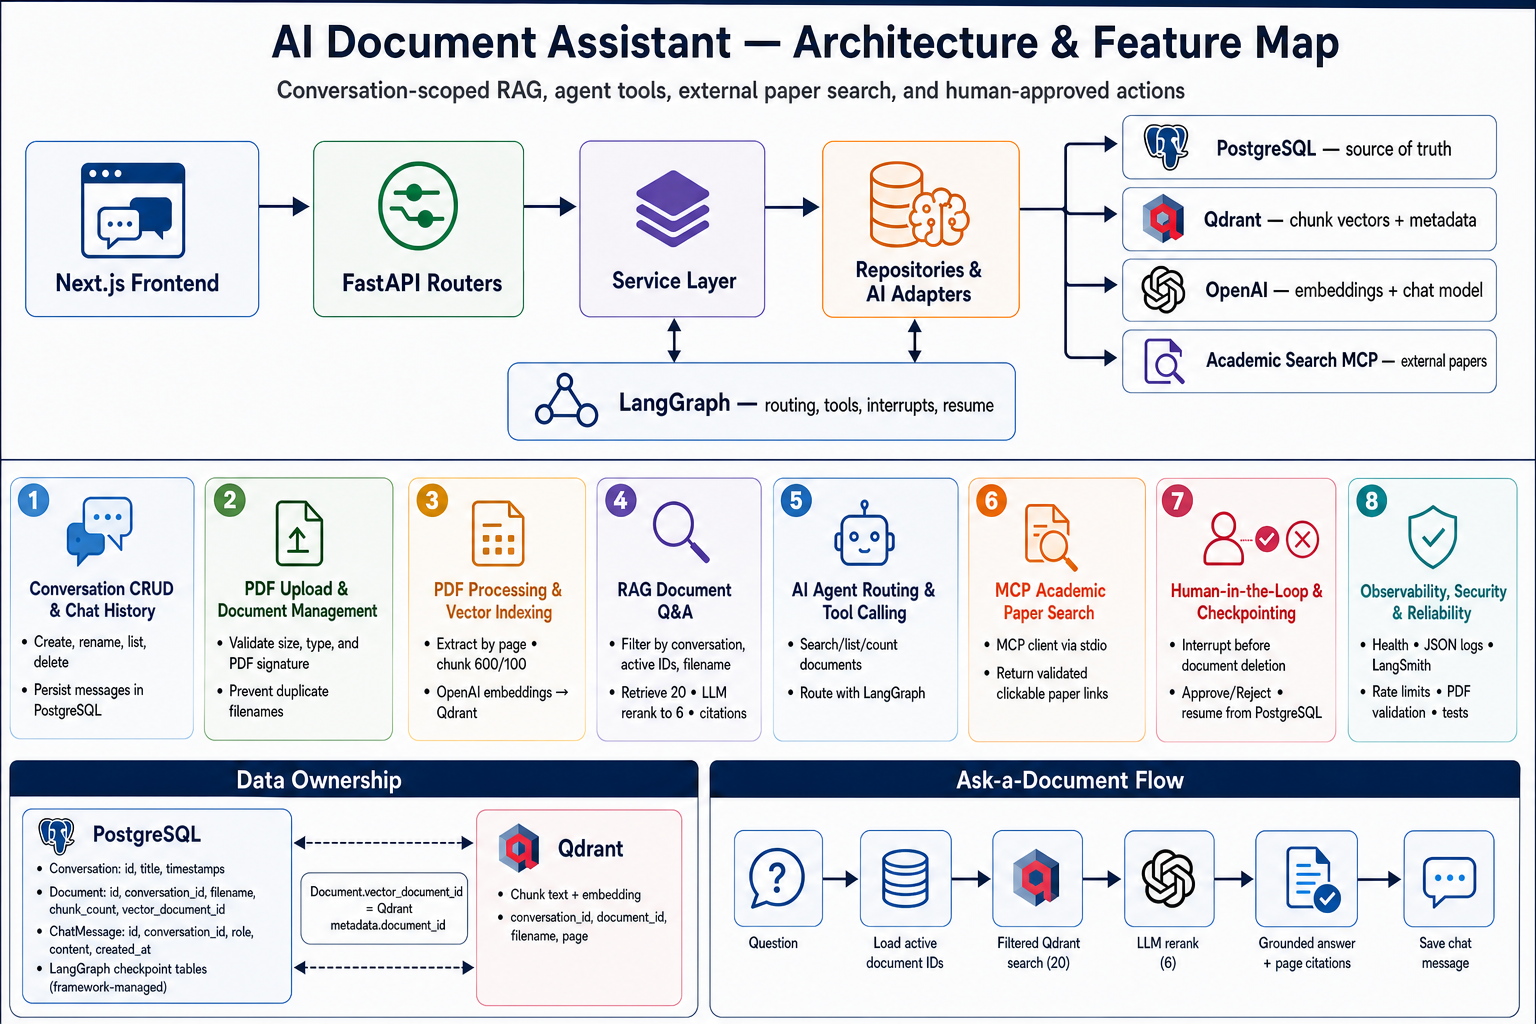
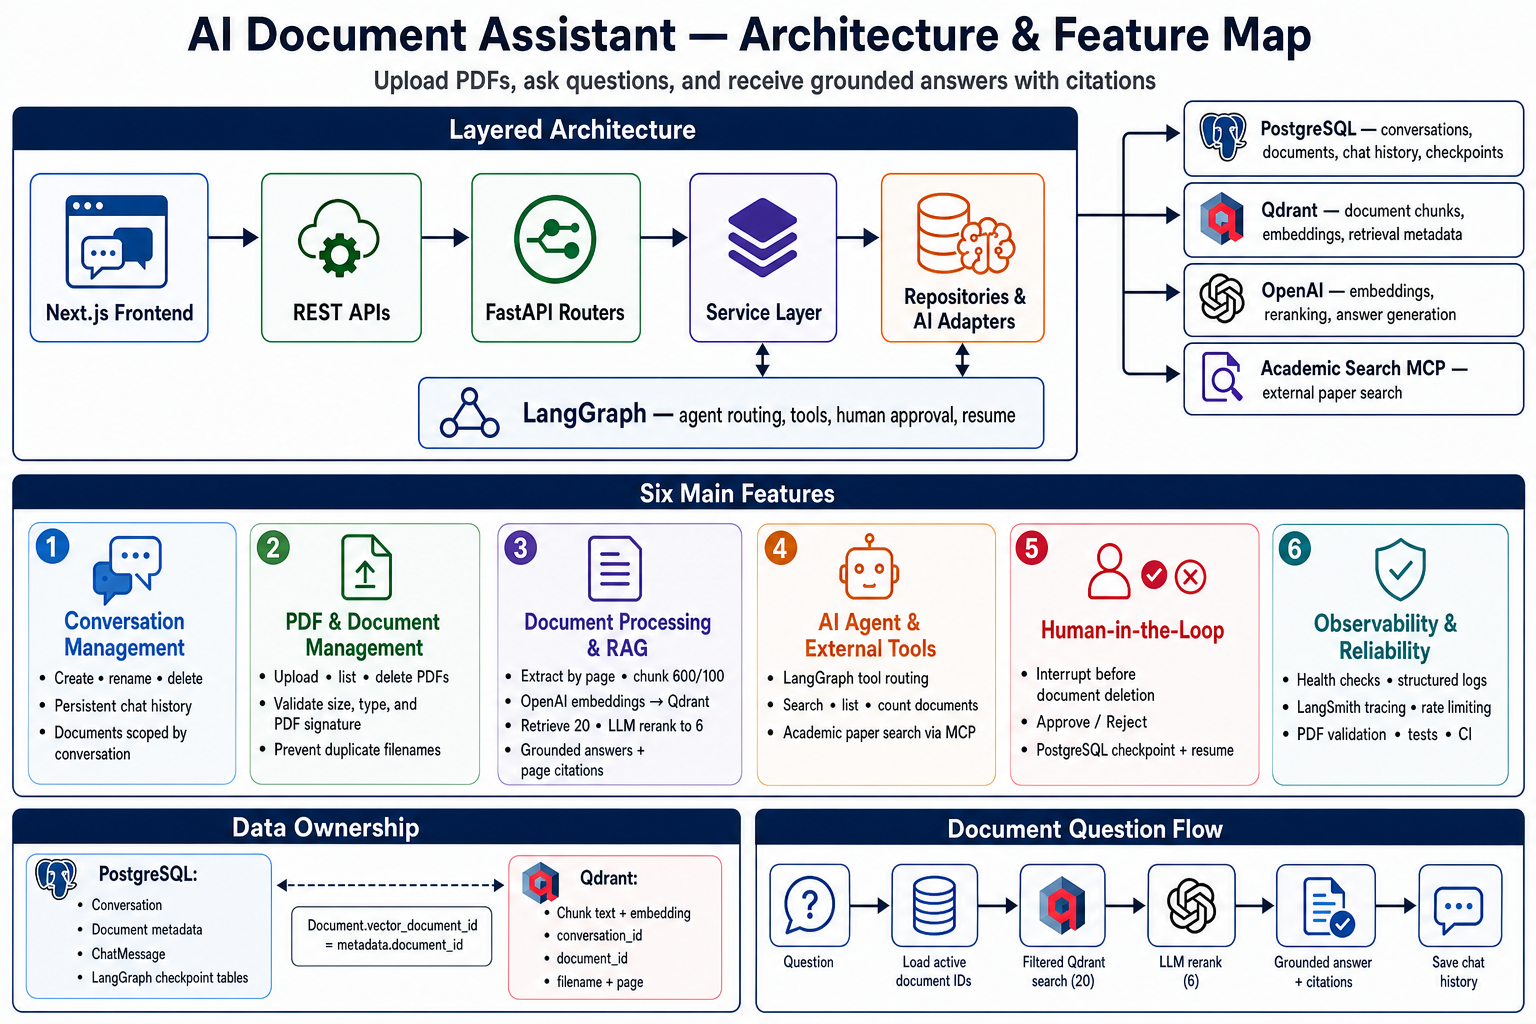
Update project architecture and feature overview

diff --git a/README.md b/README.md
@@ -19,6 +19,14 @@ academic discovery through MCP, and human approval for destructive actions.
 > Built as a portfolio-ready reference for production-oriented RAG and agentic
 > application development.
 
+## 🗺 Project Overview
+
+The diagram below summarizes the architecture, feature workflows, core data
+model, AI orchestration, and reliability stack of the complete application.
+Click the image to open the full-size version.
+
+[![AI Document Assistant — Project Architecture and Feature Map](img/project-architecture-feature-map.png)](img/project-architecture-feature-map.png)
+
 ## 🖥 Application Preview
 
 ### Dark theme
@@ -70,6 +78,101 @@ flowchart LR
     DELETE --> HITL{"Approve / Reject"}
     HITL -->|Approve| PG
     HITL -->|Approve| QD
+```
+
+### Backend workflow — explain the system in this order
+
+> **Short project explanation:** The backend is a layered FastAPI application
+> for conversation-scoped document intelligence. PostgreSQL is the source of
+> truth for conversations, documents, chat history, and durable LangGraph
+> checkpoints. Uploaded PDFs are validated, converted into text chunks,
+> embedded, and indexed in Qdrant. Chat requests are routed to document RAG,
+> external academic search through MCP, or a human-approved deletion workflow.
+> The service layer coordinates these stores and keeps the HTTP, business,
+> persistence, and AI concerns separated.
+
+```mermaid
+flowchart TD
+    START["FastAPI startup"] --> LIFE["Lifespan"]
+    LIFE --> INIT["Configure JSON logging, LangSmith, and Qdrant indexes"]
+    LIFE --> CP[("Open PostgreSQL checkpoint pool")]
+    CP --> BUILD["Build LangGraph agent and delete workflow"]
+    BUILD --> READY["API ready"]
+
+    USER["Frontend request"] --> MW["CORS → request ID/logging → rate limit"]
+    MW --> ROUTER["FastAPI router + Pydantic validation"]
+    ROUTER --> DI["Dependency injection"]
+    DI --> SERVICE["Service layer"]
+
+    SERVICE --> DECISION{"Requested feature"}
+
+    DECISION -->|Conversation CRUD| CRUD["ConversationService"]
+    CRUD --> CREPO["Conversation / document / message repositories"]
+    CREPO --> PG[("PostgreSQL source of truth")]
+
+    DECISION -->|Upload PDF| UPLOAD["Validate MIME, size, and PDF signature"]
+    UPLOAD --> EXTRACT["PyPDF extract → chunk 600/100"]
+    EXTRACT --> EMBED["OpenAI embeddings"]
+    EMBED --> QD[("Qdrant vectors + metadata")]
+    QD --> DOCROW["Save document metadata"]
+    DOCROW --> PG
+
+    DECISION -->|Ask uploaded documents| AGENT["AgentService / LangGraph agent"]
+    AGENT --> ACTIVE["Load active document IDs from PostgreSQL"]
+    ACTIVE --> SEARCH["Qdrant filtered search: top 20"]
+    SEARCH --> RERANK["LLM rerank: select 6"]
+    RERANK --> ANSWER["Grounded answer + inline page citations"]
+
+    DECISION -->|Find external papers| MCPWRAP["LangChain tool wrapper"]
+    MCPWRAP --> MCP["MCP stdio: academic-search"]
+    MCP --> PROVIDER["Crossref / Semantic Scholar / OpenAlex / PubMed"]
+    PROVIDER --> LINKS["Validate URLs + clickable paper titles"]
+
+    DECISION -->|Delete PDF| DELETE["Deterministic LangGraph delete workflow"]
+    DELETE --> INTERRUPT["interrupt: Approve / Reject"]
+    INTERRUPT --> CP
+    INTERRUPT -->|Approve| CLEAN["Delete Qdrant vectors + PostgreSQL row"]
+    INTERRUPT -->|Reject| CANCEL["Cancel without side effects"]
+
+    ANSWER --> HISTORY["Persist assistant message"]
+    LINKS --> HISTORY
+    CLEAN --> HISTORY
+    CANCEL --> HISTORY
+    HISTORY --> PG
+    HISTORY --> RESPONSE["Typed API response → Frontend"]
+    CRUD --> RESPONSE
+    DOCROW --> RESPONSE
+```
+
+Follow one request through the same reusable layers:
+
+```text
+HTTP request
+  → Middleware: cross-cutting protection and observability
+  → Router: endpoint and HTTP contract
+  → Pydantic schema: input/output validation
+  → Dependency injection: assemble session, repositories, and services
+  → Service: business rules and workflow orchestration
+  → Repository / AI adapter: PostgreSQL, Qdrant, OpenAI, or MCP
+  → Response schema
+  → Frontend
+```
+
+| Feature | Start here | Main workflow | State changed |
+| --- | --- | --- | --- |
+| Conversation CRUD | `app/api/conversation.py` | Router → `ConversationService` → repositories | PostgreSQL; deletion also cleans Qdrant and checkpoints |
+| PDF upload | `POST /{conversation_id}/documents` | Validate → extract → chunk → embed → index → save metadata | Qdrant + PostgreSQL |
+| Document question | `POST /conversations/{id}/chat` | active SQL IDs → filtered retrieval → rerank → grounded answer | Chat history + agent checkpoint |
+| Paper discovery | `AgentService` academic route | LangChain wrapper → MCP client → academic provider → URL validation | Chat history |
+| PDF deletion | delete intent or delete tool | StateGraph → interrupt → durable checkpoint → Approve/Reject | Qdrant + PostgreSQL + checkpoint |
+| Conversation deletion | `DELETE /conversation/{id}` | clean vectors → agent threads → messages → documents → parent | All conversation-scoped state |
+
+The core design rule is:
+
+```text
+Use deterministic code for actions that must be predictable.
+Use the LLM for ambiguous language and tool selection.
+Use human approval for destructive side effects.
 ```
 
 ### Request routing
